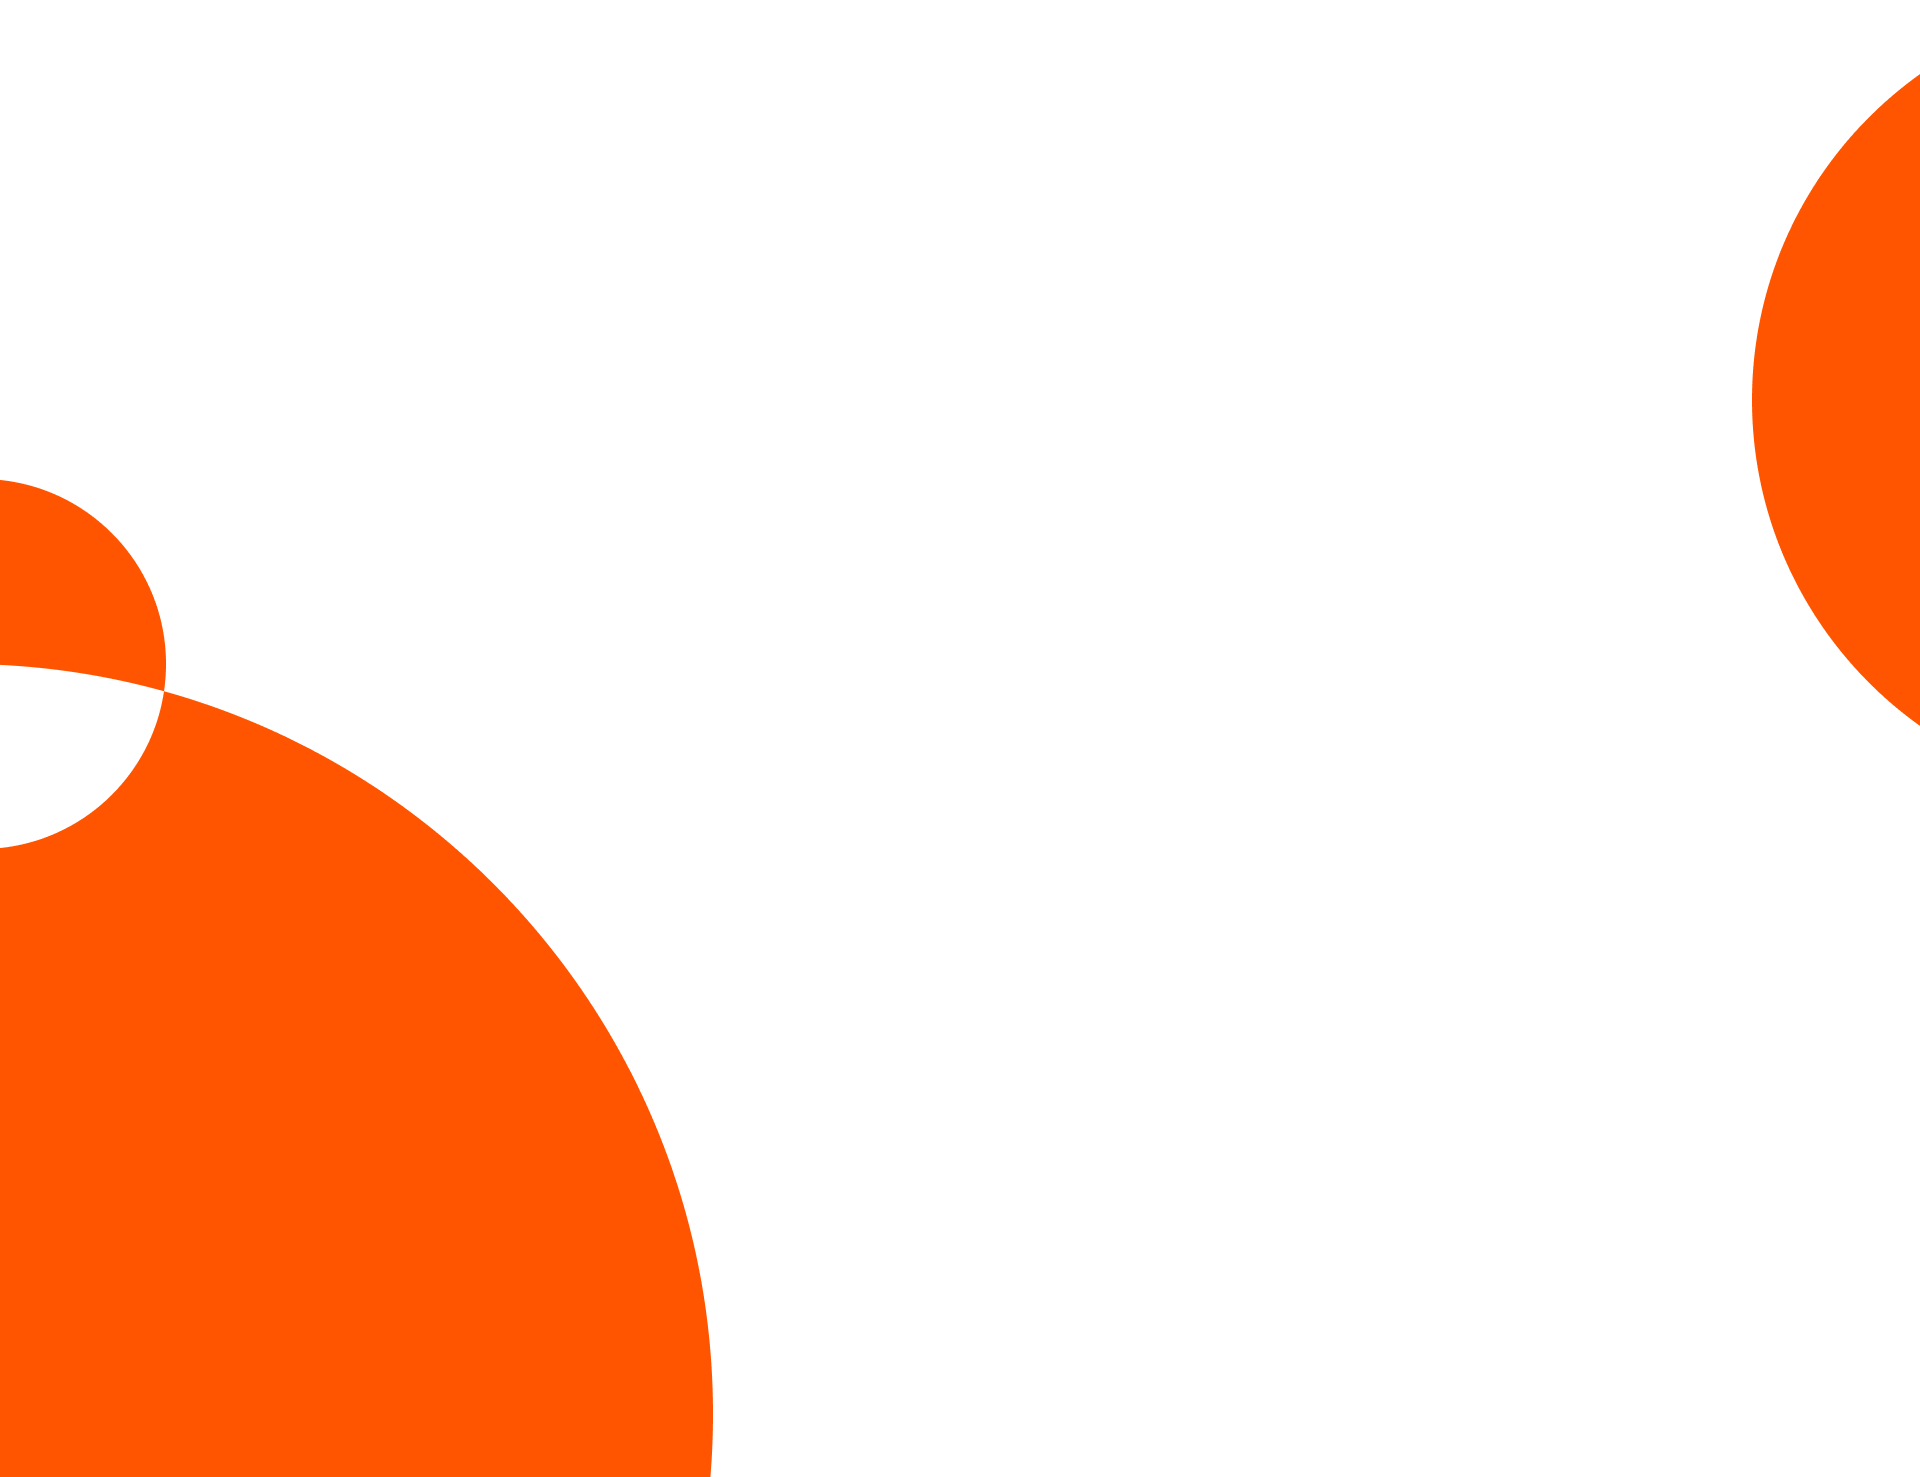
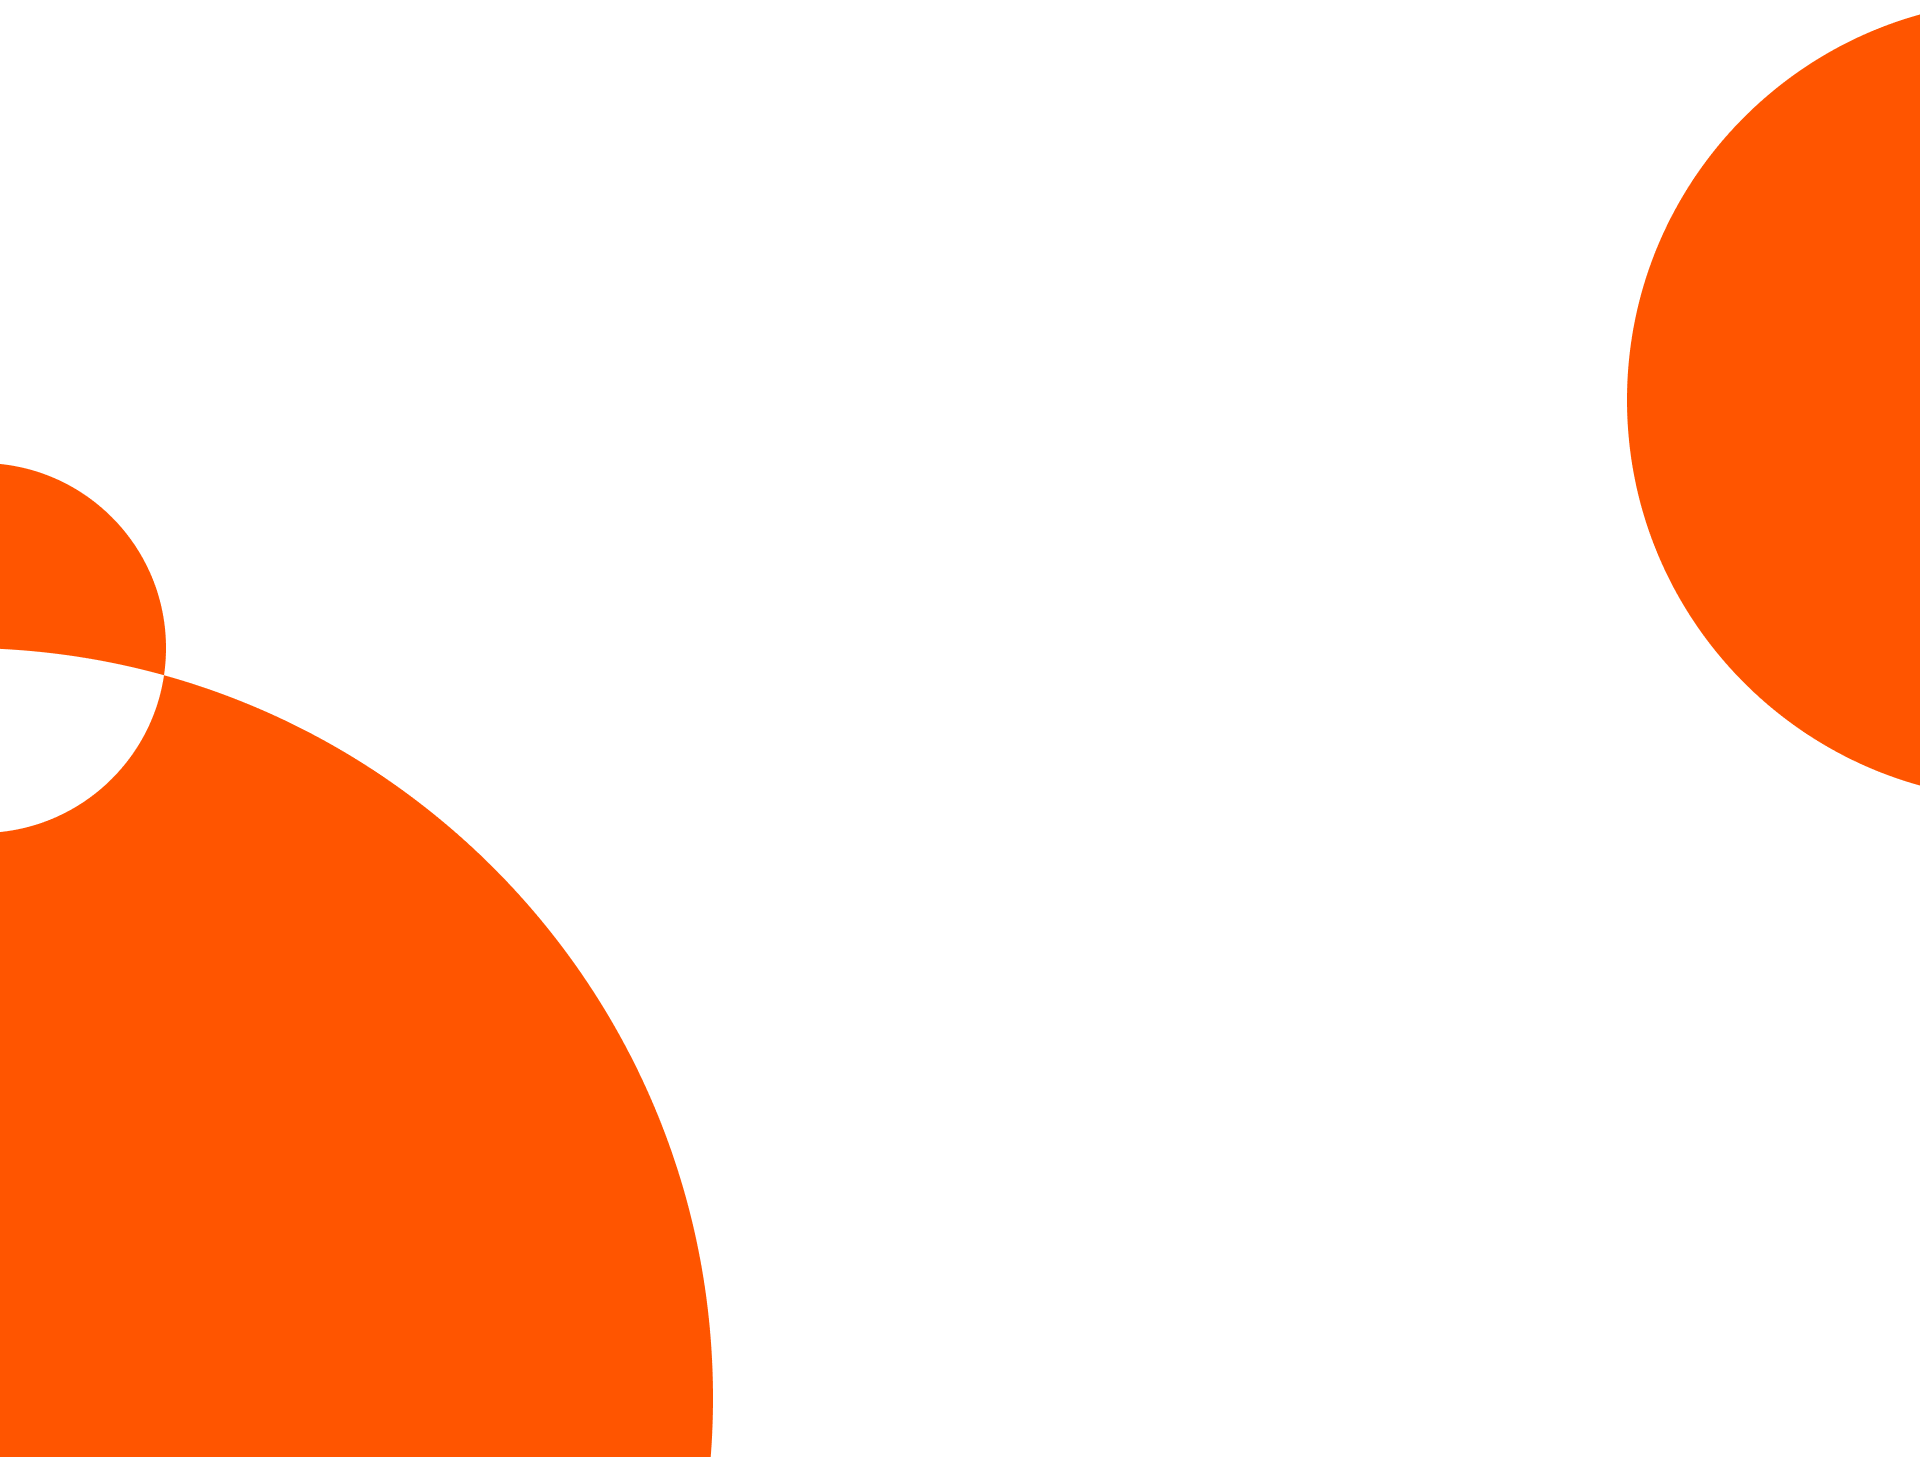
added adaptivity

diff --git a/src/scss/app.scss b/src/scss/app.scss
@@ -15,7 +15,7 @@ p {
 }
 .background-img {
   background-image: url(../assets/images/background1.png);
-  background-size:cover;
+  background-size: cover;
   background-repeat: no-repeat;
 }
 header {
@@ -54,41 +54,37 @@ header {
     }
   }
 }
-.main {
-  position: relative;
-  .main-wrapper {
-    align-items: center;
-    display: flex;
-    flex-direction: column;
-    margin: 0 auto;
-    margin-top: 275px;
-    margin-bottom: 172px;
 
-    h1 {
-      color: $or;
-      @include font(156px, 900);
-      margin-bottom: 30px;
-      max-width: 800px;
-      transform: translateX(180px);
-      text-indent: -2em;
-    }
-    p {
-      color: $or;
-      @include font(18px, 500);
-      margin-bottom: 38px;
-    }
-    .main-link {
-      background-color: $or;
-      border-radius: 50px;
-      cursor: pointer;
-      text-decoration: none;
-      text {
-        @include font(14px, 500);
-        text-align: center;
-        color: $bl;
-        display: block;
-        margin: 14px 37px;
-      }
+.main-wrapper {
+  align-items: center;
+  display: flex;
+  flex-direction: column;
+  margin: 0 auto;
+  margin-top: 275px;
+  h1 {
+    color: $or;
+    @include font(156px, 900);
+    margin-bottom: 30px;
+    max-width: 800px;
+    text-indent: -2em;
+    text-align: center;
+  }
+  p {
+    color: $or;
+    @include font(18px, 500);
+    margin-bottom: 38px;
+  }
+  .main-link {
+    background-color: $or;
+    border-radius: 50px;
+    cursor: pointer;
+    text-decoration: none;
+    h2 {
+      @include font(14px, 500);
+      color: $bl;
+      display: block;
+      text-align: center;
+      margin: 14px 37px;
     }
   }
 }
@@ -96,6 +92,7 @@ header {
 footer {
   background-color: $black;
   padding: 80px 0;
+  transform: translateY(172px);
   .footer-parent1,
   .footer-parent2 {
     display: flex;
@@ -197,8 +194,8 @@ footer {
   }
   .background-img {
     background-image: url(../assets/images/background2.png);
-    background-size:cover;
     background-repeat: no-repeat;
+    background-size: contain;
   }
   .header-wrapper {
     height: 54px;
@@ -229,4 +226,126 @@ footer {
     //   }
     // }
   }
+
+  .main-wrapper {
+    h1 {
+      @include font(104px, 900);
+      max-width: 556px;
+      text-indent: 0;
+    }
+    p {
+      @include font(18px, 500);
+      text-align: center;
+      max-width: 373px;
+    }
+  }
+  footer {
+    padding: 50px 0;
+    .footer-parent1,
+    .footer-parent2 {
+      max-width: $medium-width;
+    }
+    .footer-parent1 {
+      flex-direction: column;
+      justify-content: space-between;
+      margin-bottom: 50px;
+    }
+    .footer-child1 {
+      flex-direction: column;
+      .footer-child1__elem1 {
+        margin-bottom: 50px;
+      }
+      .footer-child1__elem2 {
+        justify-content: space-between;
+        margin-left: 0;
+        margin-bottom: 100px;
+      }
+    }
+    .footer-child2 {
+      .social-button {
+        margin-top: 0;
+        margin-right: 15px;
+        height: 44px;
+        width: 44px;
+        .icon {
+          margin-top: 11px;
+        }
+      }
+    }
+  }
 }
+@media (max-width: $small-query) {
+  .background-img {
+    background-image: url(../assets/images/background3.png);
+    background-repeat: no-repeat;
+    background-size: contain;
+  }
+  .header-wrapper {
+    height: 54px;
+    max-width: $small-width;
+    // ul {
+    //   display: flex;
+    //   padding: 0;
+    //   @include font(16px, 400);
+    //   .vertical-line {
+    //     width: 5px;
+    //     border-left: 1px solid $white;
+    //     height: 16px;
+    //     margin-right: 32px;
+    //   }
+    //   li {
+    //     margin-right: 32px;
+    //     list-style: none;
+    //     &:last-child {
+    //       margin-right: 0;
+    //     }
+    //     a {
+    //       color: $white;
+    //       text-decoration: none;
+    //       &:hover {
+    //         color: $or;
+    //       }
+    //     }
+    //   }
+    // }
+  }
+
+  .main-wrapper {
+    h1 {
+      @include font(48px, 900);
+      max-width: 312px;
+    }
+  }
+  footer {
+    padding: 50px 0;
+    transform: translateY(306px);
+    .footer-parent1,
+    .footer-parent2 {
+      max-width: $small-width;
+    }
+    .footer-child1 {
+      flex-direction: column;
+      .footer-child1__elem2 {
+        div {
+          margin-bottom: 52px;
+        }
+        flex-direction: column;
+      }
+    }
+    .footer-parent2 {
+      ul {
+        flex-wrap: wrap;
+        li {
+          a {
+            line-height: 25px;
+            margin-right: 15px;
+          }
+        }
+      }
+      p {
+        line-height: 25px;
+      }
+    }
+  }
+}
+

diff --git a/src/App.js b/src/App.js
@@ -4,6 +4,7 @@ import InstagramIcon from "@mui/icons-material/Instagram";
 import TwitterIcon from "@mui/icons-material/Twitter";
 import FacebookOutlinedIcon from "@mui/icons-material/FacebookOutlined";
 
+
 function App() {
   return (
     <div className="background-img">
@@ -40,7 +41,7 @@ function App() {
             <p>Millions of songs and podcasts. No credit card needed.</p>
           </div>
           <a href="#" className="main-link">
-            <text>GET INTMUSIC FREE</text>
+            <h2>GET INTMUSIC FREE</h2>
           </a>
         </div>
       </div>

diff --git a/src/index.js b/src/index.js
@@ -1,11 +1,6 @@
-import React from 'react';
-import ReactDOM from 'react-dom';
-import App from './App';
+import React from "react";
+import ReactDOM from "react-dom/client";
+import App from "./App";
 
-ReactDOM.render(
-  <React.StrictMode>
-    <App />
-  </React.StrictMode>,
-  document.getElementById('root')
-);
-
+const root = ReactDOM.createRoot(document.getElementById("root"));
+root.render(<App />);

diff --git a/public/index.html b/public/index.html
@@ -2,6 +2,7 @@
 <html lang="en">
   <head>
     <meta charset="utf-8" />
+    <meta name="viewport" content="width=device-width, initial-scale=1">
     <title>Intmusic</title>
   </head>
   <body>

diff --git a/src/scss/_variables.scss b/src/scss/_variables.scss
@@ -17,6 +17,7 @@ $gr2: #222326;
 // sreen-width
 $full-width: 1141px;
 $medium-width: 751px;
+$small-width: 449px;
 
 // query width
 $medium-query: 991px;
